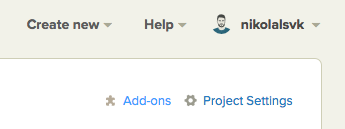
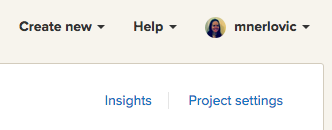
Add new screenshots to AWS Container Registry page

diff --git a/source/docs/docker/continuous-delivery-aws-container-registry.md b/source/docs/docker/continuous-delivery-aws-container-registry.md
@@ -14,15 +14,15 @@ Integrating your **Semaphore account** with the **Amazon EC2 Container Registry
 (ECR)** is quick and straightforward. It will only take a couple of minutes of
 your time.
 
-Container registry integrations are available as project add-ons for all
-Semaphore projects that are set up to use **Docker**. For more information on
-how to set up a Docker project on Semaphore, read our documentation page on
+Container registry integrations are available for all Semaphore projects that
+are set up to use **Docker**. For more information on how to set up a Docker
+project on Semaphore, read our documentation page on
 [setting up continuous integration for a Docker project on Semaphore](/docs/docker/setting-up-continuous-integration-for-docker-project.html).
 
-Configuring the Amazon EC2 Container Registry (ECR) project add-on will enable
+Configuring the Amazon EC2 Container Registry (ECR) integration will enable
 you to **push** and **pull** your images without having to log into ECR during
 builds and deployments. This can be done by visiting your project on Semaphore
-and clicking "Add-ons" in the upper right corner of your screen.
+and clicking "Project settings" in the upper right corner of your screen.
 
 <img src="/docs/assets/img/docker/shared/click-add-ons.png" class="img-responsive img-bordered" alt="Click Project Add-ons">
 
